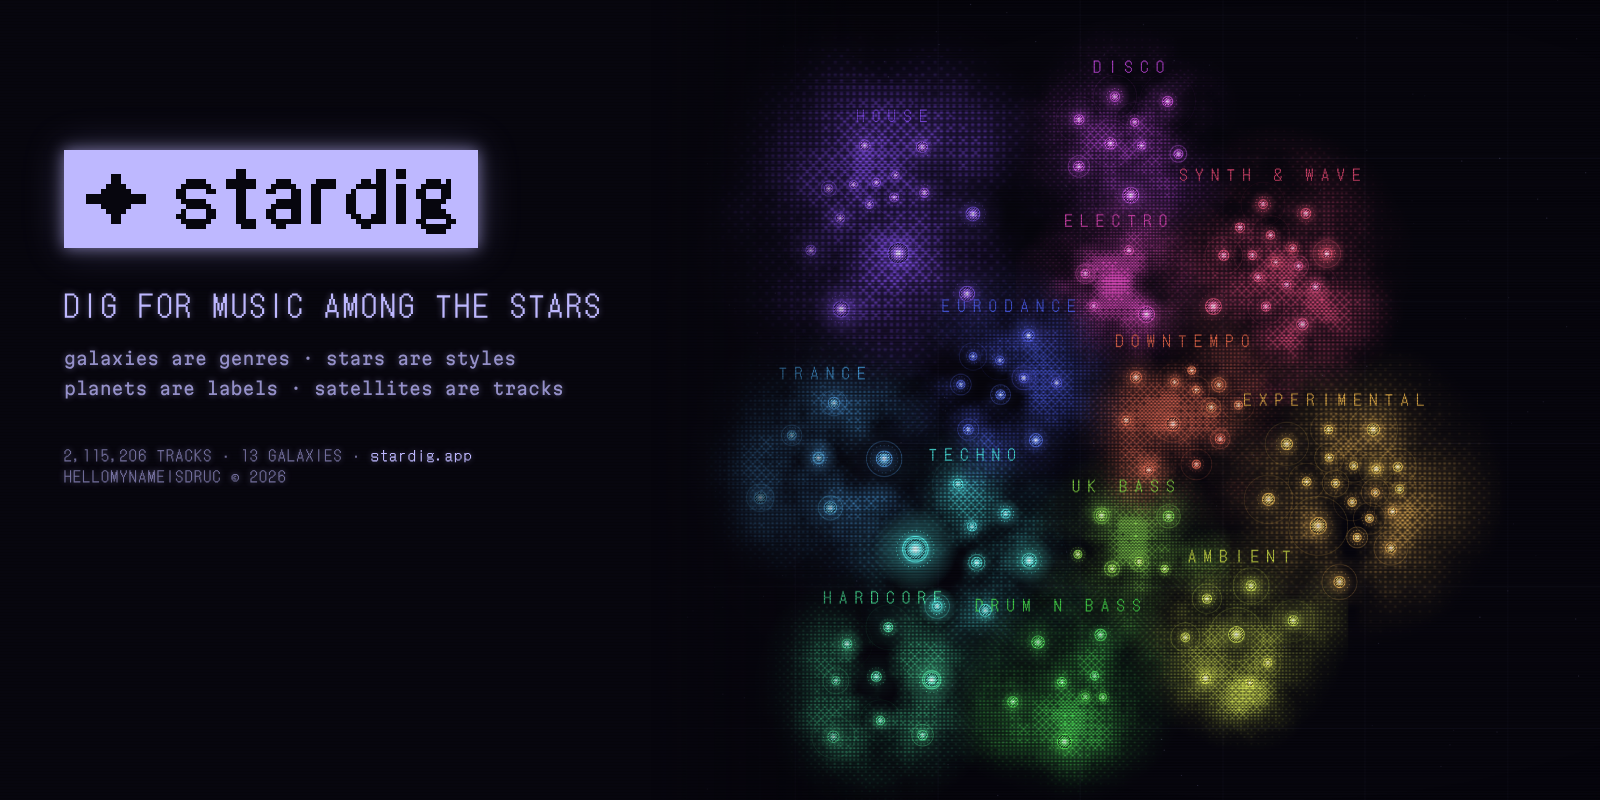
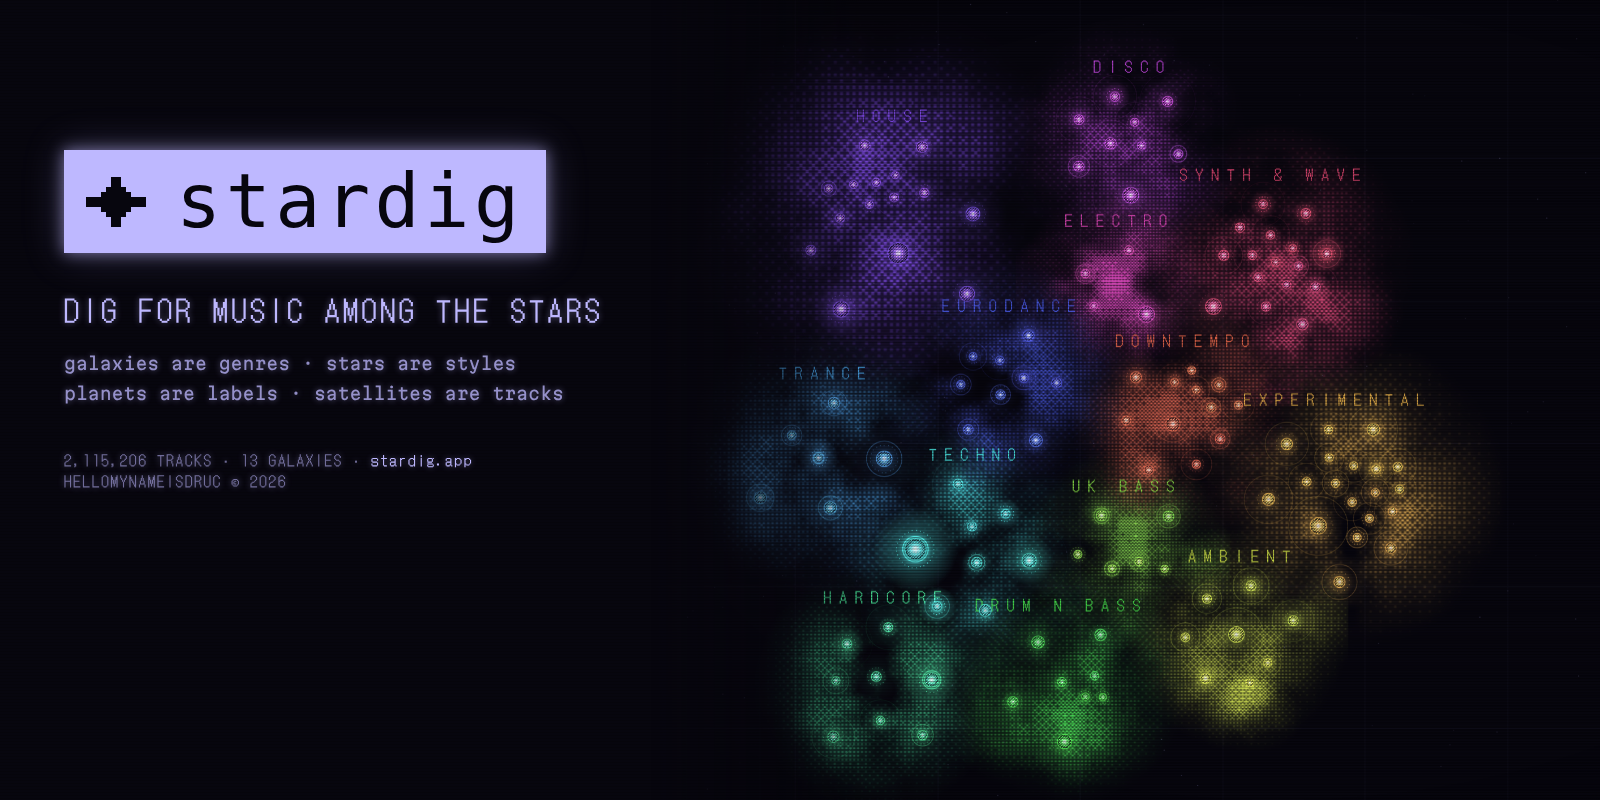
Wordmark set in Martian Mono, the face of the credit line, after the pixel spark; social image to match
Claude-Session: https://claude.ai/code/session_0118KSDC269jzHuEKW3jVK4F

Changed region(s): [[0.0312, 0.1562, 0.375, 0.4062], [0.0312, 0.4375, 0.3438, 0.5], [0.0312, 0.5625, 0.3125, 0.625]]

diff --git a/web/src/ui/logo.ts b/web/src/ui/logo.ts
@@ -1,35 +1,24 @@
-// The wordmark: stardig, lowercase, in DotGothic16's own pixels (copied from the font at its native 16px), except
-// t, i and r, redrawn on the same grid with the font's 2-pixel strokes (at this size the font
-// draws them with 1-pixel stems). A four-point spark comes first. Drawn in the colour it sits in.
-const G: Record<string, string[]> = {
-  s: ["........", "........", "........", "..####..", ".######.", "##....##", "##......", ".#####..", "..#####.", ".#....##", "##....##", ".######.", "..####..", "........"],
-  t: ["......", "..##..", "..##..", "######", "######", "..##..", "..##..", "..##..", "..##..", "..##..", "..##..", "..####", "...###", "......"],
-  a: [".......", ".......", ".......", "..###..", ".#####.", "##...##", ".....##", "..#####", ".######", "##...##", "##...##", ".######", "..##...", "......."],
-  r: [".....", ".....", ".....", ".####", "#####", "##...", "##...", "##...", "##...", "##...", "##...", "##...", ".....", "....."],
-  d: ["........", "......##", "......##", "...##.##", "..######", ".#....##", "##....##", "##....##", "##....##", "##....##", ".##..###", "..######", "...##...", "........"],
-  i: ["..", "##", "##", "..", "##", "##", "##", "##", "##", "##", "##", "##", "..", ".."],
-  g: ["........", "........", "........", "..###.#.", ".######.", "##...##.", "##...##.", ".#####..", ".####...", ".#####..", ".######.", "##....##", ".######.", "..####.."],
-};
+// The wordmark: a four-point pixel spark and "stardig" in Martian Mono — the same face as the
+// credit line. Drawn in the colour it sits in.
 const SPARK = ["............", "............", ".....##.....", ".....##.....", "....####....", "...######...", "############", "############", "...######...", "....####....", ".....##.....", ".....##.....", "............", "............"];
-const GAP = 2;
 
-/** the wordmark as SVG; px = the size of one font pixel in CSS px */
-export function logoSvg(px = 1, spark = true) {
+/** the spark alone, as SVG; px = the size of one of its pixels in CSS px */
+function sparkSvg(px: number) {
   const rects: string[] = [];
-  let x = 0;
-  const put = (rows: string[], dx: number) => rows.forEach((r, y) => {
+  SPARK.forEach((r, y) => {
     for (let i = 0; i < r.length; i++) {
       if (r[i] !== "#") continue;
-      let j = i; while (j + 1 < r.length && r[j + 1] === "#") j++; // runs, not single pixels
-      rects.push(`<rect x="${dx + i}" y="${y}" width="${j - i + 1}" height="1"/>`); i = j;
+      let j = i; while (j + 1 < r.length && r[j + 1] === "#") j++;
+      rects.push(`<rect x="${i}" y="${y}" width="${j - i + 1}" height="1"/>`); i = j;
     }
   });
-  if (spark) { put(SPARK, 0); x = SPARK[0].length + 6; }
-  for (const ch of "stardig") { put(G[ch], x); x += G[ch][0].length + GAP; }
-  const w = x - GAP, h = 14;
-  return `<svg class="logo-svg" viewBox="0 0 ${w} ${h}" width="${w * px}" height="${h * px}" fill="currentColor" shape-rendering="crispEdges" aria-hidden="true">${rects.join("")}</svg>`;
+  return `<svg class="logo-spark" viewBox="0 0 12 14" width="${12 * px}" height="${14 * px}" fill="currentColor" shape-rendering="crispEdges" aria-hidden="true">${rects.join("")}</svg>`;
+}
+/** the wordmark: the spark, then "stardig" in Martian Mono, the face of the credit line */
+export function logoHtml(px = 1, spark = true) {
+  return `${spark ? sparkSvg(px) : ""}<span class="logo-word" style="font-size:${Math.round(15 * px)}px" aria-hidden="true">stardig</span>`;
 }
 /** fill every .logo on the page */
 export function paintLogos() {
-  document.querySelectorAll<HTMLElement>(".logo").forEach((el) => { el.innerHTML = logoSvg(Number(el.dataset.px) || 1, el.dataset.spark !== "0"); });
+  document.querySelectorAll<HTMLElement>(".logo").forEach((el) => { el.innerHTML = logoHtml(Number(el.dataset.px) || 1, el.dataset.spark !== "0"); });
 }

diff --git a/web/index.html b/web/index.html
@@ -18,11 +18,11 @@
   <meta property="og:title" content="stardig — dig for music among the stars">
   <meta property="og:description" content="Dig for music among the stars: genres are galaxies, styles are stars, labels are planets, tracks are satellites. By hellomynameisdruc.">
   <meta property="og:url" content="https://stardig.app/">
-  <meta property="og:image" content="https://stardig.app/og.png?v=3">
+  <meta property="og:image" content="https://stardig.app/og.png?v=4">
   <meta property="og:image:width" content="1280">
   <meta property="og:image:height" content="640">
   <meta name="twitter:card" content="summary_large_image">
-  <meta name="twitter:image" content="https://stardig.app/og.png?v=3">
+  <meta name="twitter:image" content="https://stardig.app/og.png?v=4">
 </head>
 <body>
   <div class="term">

diff --git a/web/src/styles/base.css b/web/src/styles/base.css
@@ -35,4 +35,4 @@ input[type="search"], input[type="text"], input[type="email"], textarea { cursor
 @media (prefers-reduced-motion: reduce) { body::after { animation: none } }
 /* the wordmark on its plate: pixel letters, no font */
 .inv.logo { display: inline-flex; align-items: center; padding: 4px 8px; line-height: 0 }
-.logo-svg { display: block }
+.logo { gap: .5em } .logo-spark { display: block; flex: none } .logo-word { font-family: var(--f-mono); font-weight: 400; letter-spacing: .06em; line-height: 1 }
